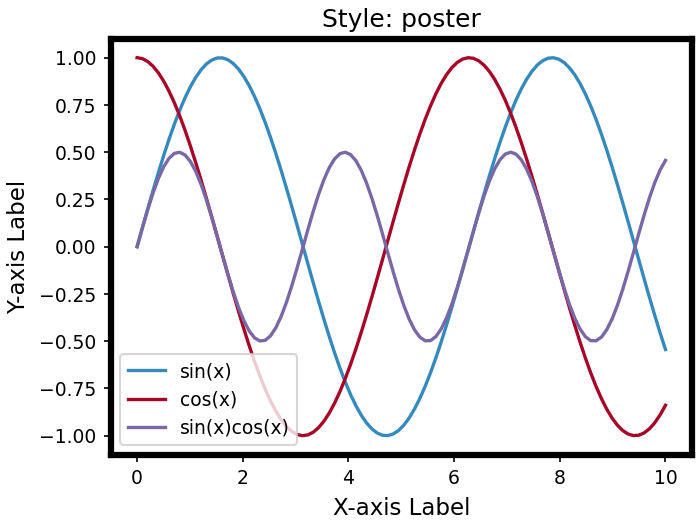
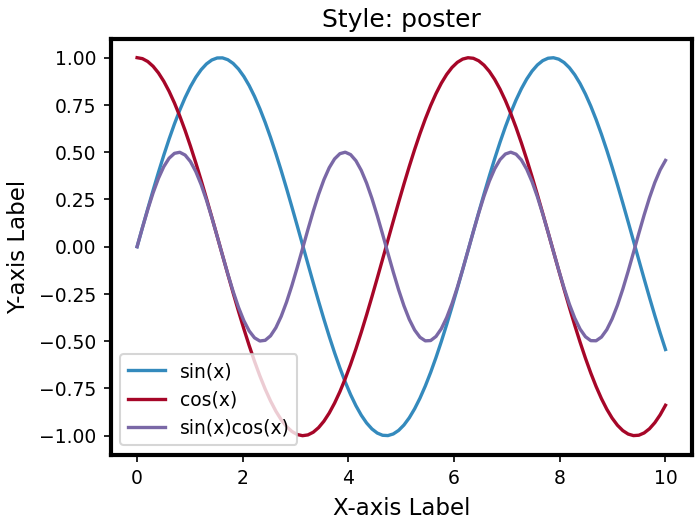
Lighten poster axes border (linewidth 3 -> 2)
Still bolder than the journal styles' ~0.6 border, just less heavy.
Bump gallery cache-buster to v=3 so the updated poster loads.

Changed region(s): [[0.1502, 0.0607, 1.0, 0.8805]]

diff --git a/docs/styles.md b/docs/styles.md
@@ -43,7 +43,7 @@ plt.style.use(['peerstyle.ieee', 'peerstyle.muted'])
 
 General-purpose serif scientific style. Enables LaTeX text rendering, 300 DPI, and grid lines. A good starting point for any journal that does not have a specific preset.
 
-![custom_style](gallery/custom_style.png?v=2){ width="500" }
+![custom_style](gallery/custom_style.png?v=3){ width="500" }
 
 **Key settings:** `text.usetex: True` · `font.family: serif` · `figure.figsize: 3.5×2.625 in` · `figure.dpi: 300`
 
@@ -53,7 +53,7 @@ General-purpose serif scientific style. Enables LaTeX text rendering, 300 DPI, a
 
 Follows IEEE journal submission guidelines. Times New Roman, inward ticks on all four sides, minor ticks enabled, and a CVD-friendly color cycle.
 
-![ieee](gallery/ieee.png?v=2){ width="500" }
+![ieee](gallery/ieee.png?v=3){ width="500" }
 
 **Key settings:** `font.serif: Times New Roman` · `figure.figsize: 3.5×2.625 in` · `xtick.direction: in` · `xtick.minor.visible: True`
 
@@ -63,7 +63,7 @@ Follows IEEE journal submission guidelines. Times New Roman, inward ticks on all
 
 Follows Nature journal submission guidelines. Arial/Helvetica, compact font sizes, outward ticks, 89 mm single-column width.
 
-![nature](gallery/nature.png?v=2){ width="500" }
+![nature](gallery/nature.png?v=3){ width="500" }
 
 **Key settings:** `font.family: sans-serif` · `figure.figsize: 3.504×2.628 in` · `axes.labelsize: 7` · `xtick.labelsize: 5`
 
@@ -73,7 +73,7 @@ Follows Nature journal submission guidelines. Arial/Helvetica, compact font size
 
 High-visibility style for conference posters. Large fonts, thick lines, vibrant colors, 150 DPI.
 
-![poster](gallery/poster.png?v=2){ width="500" }
+![poster](gallery/poster.png?v=3){ width="500" }
 
 **Key settings:** `figure.figsize: 12×9 in` · `lines.linewidth: 4` · `axes.titlesize: 40`
 
@@ -105,7 +105,7 @@ peerstyle.use_style(['custom_style', 'no-latex'])
 
 Removes the top and right axis spines. Standard in biology, statistics, and data science.
 
-![despine](gallery/despine.png?v=2){ width="500" }
+![despine](gallery/despine.png?v=3){ width="500" }
 
 ```python
 peerstyle.use_style(['nature', 'despine'])
@@ -119,7 +119,7 @@ peerstyle.use_style(['nature', 'despine'])
 
 Bumps fonts and figure size for Jupyter notebooks, where journal-sized figures are too small to read on screen. Also disables LaTeX.
 
-![notebook](gallery/notebook.png?v=2){ width="500" }
+![notebook](gallery/notebook.png?v=3){ width="500" }
 
 ```python
 peerstyle.use_style(['nature', 'notebook'])
@@ -134,7 +134,7 @@ peerstyle.use_style(['ieee', 'notebook'])
 
 [Paul Tol's](https://personal.sron.nl/~pault/) CVD-safe bright colour palette. Distinguishable by people with colour-vision deficiency and in greyscale print.
 
-![bright](gallery/bright.png?v=2){ width="500" }
+![bright](gallery/bright.png?v=3){ width="500" }
 
 ```python
 peerstyle.use_style(['ieee', 'bright'])
@@ -148,7 +148,7 @@ peerstyle.use_style(['ieee', 'bright'])
 
 Paul Tol's CVD-safe muted colour palette. Softer than `bright` and better when you have many series.
 
-![muted](gallery/muted.png?v=2){ width="500" }
+![muted](gallery/muted.png?v=3){ width="500" }
 
 ```python
 peerstyle.use_style(['nature', 'muted'])
@@ -162,7 +162,7 @@ peerstyle.use_style(['nature', 'muted'])
 
 Black and grey tones with varied linestyles. Use this to verify monochrome readability or to meet journal requirements for B&W print.
 
-![grayscale](gallery/grayscale.png?v=2){ width="500" }
+![grayscale](gallery/grayscale.png?v=3){ width="500" }
 
 ```python
 peerstyle.use_style(['ieee', 'grayscale'])

diff --git a/README.md b/README.md
@@ -16,19 +16,19 @@ Yeah, you can prompt an LLM to spit out an rcParams block. I did that for a whil
 
 | `custom_style` | `ieee` |
 |:---:|:---:|
-| <img src="https://raw.githubusercontent.com/Esmaeelpour/peerstyle/main/docs/gallery/custom_style.png?v=2" width="380"> | <img src="https://raw.githubusercontent.com/Esmaeelpour/peerstyle/main/docs/gallery/ieee.png?v=2" width="380"> |
+| <img src="https://raw.githubusercontent.com/Esmaeelpour/peerstyle/main/docs/gallery/custom_style.png?v=3" width="380"> | <img src="https://raw.githubusercontent.com/Esmaeelpour/peerstyle/main/docs/gallery/ieee.png?v=3" width="380"> |
 
 | `nature` | `poster` |
 |:---:|:---:|
-| <img src="https://raw.githubusercontent.com/Esmaeelpour/peerstyle/main/docs/gallery/nature.png?v=2" width="380"> | <img src="https://raw.githubusercontent.com/Esmaeelpour/peerstyle/main/docs/gallery/poster.png?v=2" width="380"> |
+| <img src="https://raw.githubusercontent.com/Esmaeelpour/peerstyle/main/docs/gallery/nature.png?v=3" width="380"> | <img src="https://raw.githubusercontent.com/Esmaeelpour/peerstyle/main/docs/gallery/poster.png?v=3" width="380"> |
 
 | `bright` | `muted` |
 |:---:|:---:|
-| <img src="https://raw.githubusercontent.com/Esmaeelpour/peerstyle/main/docs/gallery/bright.png?v=2" width="380"> | <img src="https://raw.githubusercontent.com/Esmaeelpour/peerstyle/main/docs/gallery/muted.png?v=2" width="380"> |
+| <img src="https://raw.githubusercontent.com/Esmaeelpour/peerstyle/main/docs/gallery/bright.png?v=3" width="380"> | <img src="https://raw.githubusercontent.com/Esmaeelpour/peerstyle/main/docs/gallery/muted.png?v=3" width="380"> |
 
 | `grayscale` | `despine` |
 |:---:|:---:|
-| <img src="https://raw.githubusercontent.com/Esmaeelpour/peerstyle/main/docs/gallery/grayscale.png?v=2" width="380"> | <img src="https://raw.githubusercontent.com/Esmaeelpour/peerstyle/main/docs/gallery/despine.png?v=2" width="380"> |
+| <img src="https://raw.githubusercontent.com/Esmaeelpour/peerstyle/main/docs/gallery/grayscale.png?v=3" width="380"> | <img src="https://raw.githubusercontent.com/Esmaeelpour/peerstyle/main/docs/gallery/despine.png?v=3" width="380"> |
 
 </div>
 
@@ -127,7 +127,7 @@ peerstyle.curved_text(ax, x, np.cos(x), 'cos(x)', pos=0.88, offset=-9, color='C1
 ```
 
 <div align="center">
-<img src="https://raw.githubusercontent.com/Esmaeelpour/peerstyle/main/docs/gallery/curved_text_demo.png?v=2" width="500">
+<img src="https://raw.githubusercontent.com/Esmaeelpour/peerstyle/main/docs/gallery/curved_text_demo.png?v=3" width="500">
 </div>
 
 | Parameter | Default | Description |

diff --git a/docs/index.md b/docs/index.md
@@ -67,26 +67,26 @@ with peerstyle.style_context('ieee'):
 
 | `custom_style` | `ieee` |
 |:-:|:-:|
-| ![custom_style](gallery/custom_style.png?v=2) | ![ieee](gallery/ieee.png?v=2) |
+| ![custom_style](gallery/custom_style.png?v=3) | ![ieee](gallery/ieee.png?v=3) |
 
 | `nature` | `poster` |
 |:-:|:-:|
-| ![nature](gallery/nature.png?v=2) | ![poster](gallery/poster.png?v=2) |
+| ![nature](gallery/nature.png?v=3) | ![poster](gallery/poster.png?v=3) |
 
 ### Color modifiers
 
 | `bright` | `muted` |
 |:-:|:-:|
-| ![bright](gallery/bright.png?v=2) | ![muted](gallery/muted.png?v=2) |
+| ![bright](gallery/bright.png?v=3) | ![muted](gallery/muted.png?v=3) |
 
 ### Layout modifiers
 
 | `grayscale` | `despine` |
 |:-:|:-:|
-| ![grayscale](gallery/grayscale.png?v=2) | ![despine](gallery/despine.png?v=2) |
+| ![grayscale](gallery/grayscale.png?v=3) | ![despine](gallery/despine.png?v=3) |
 
 ### Curved text
 
 Label lines directly along their paths — no legend needed.
 
-![curved text demo](gallery/curved_text_demo.png?v=2)
+![curved text demo](gallery/curved_text_demo.png?v=3)